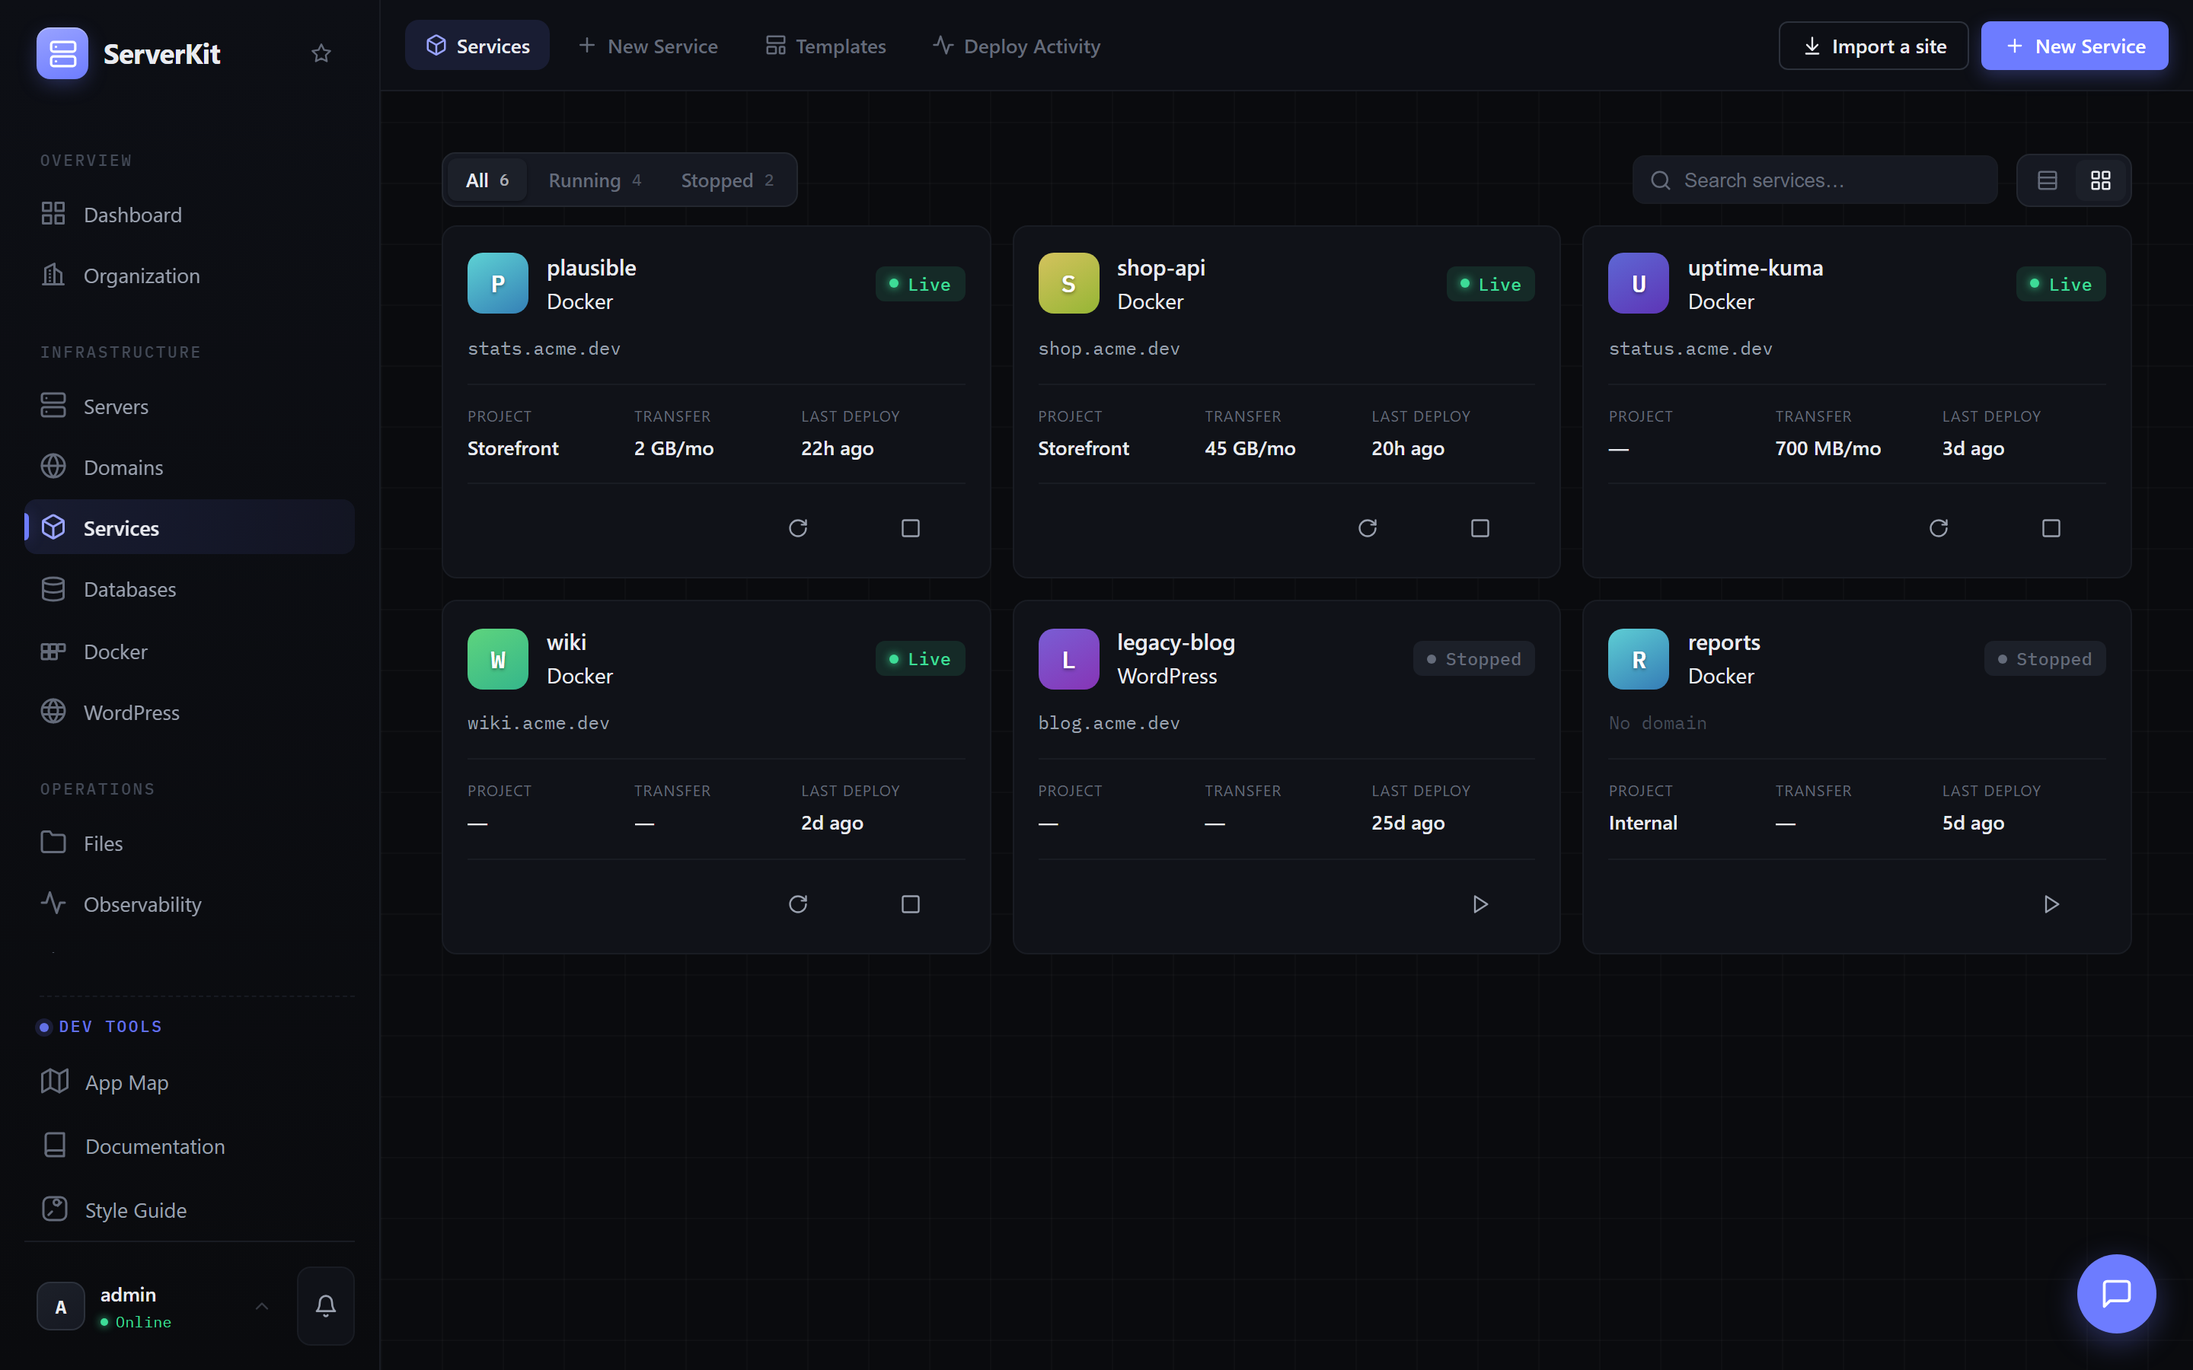
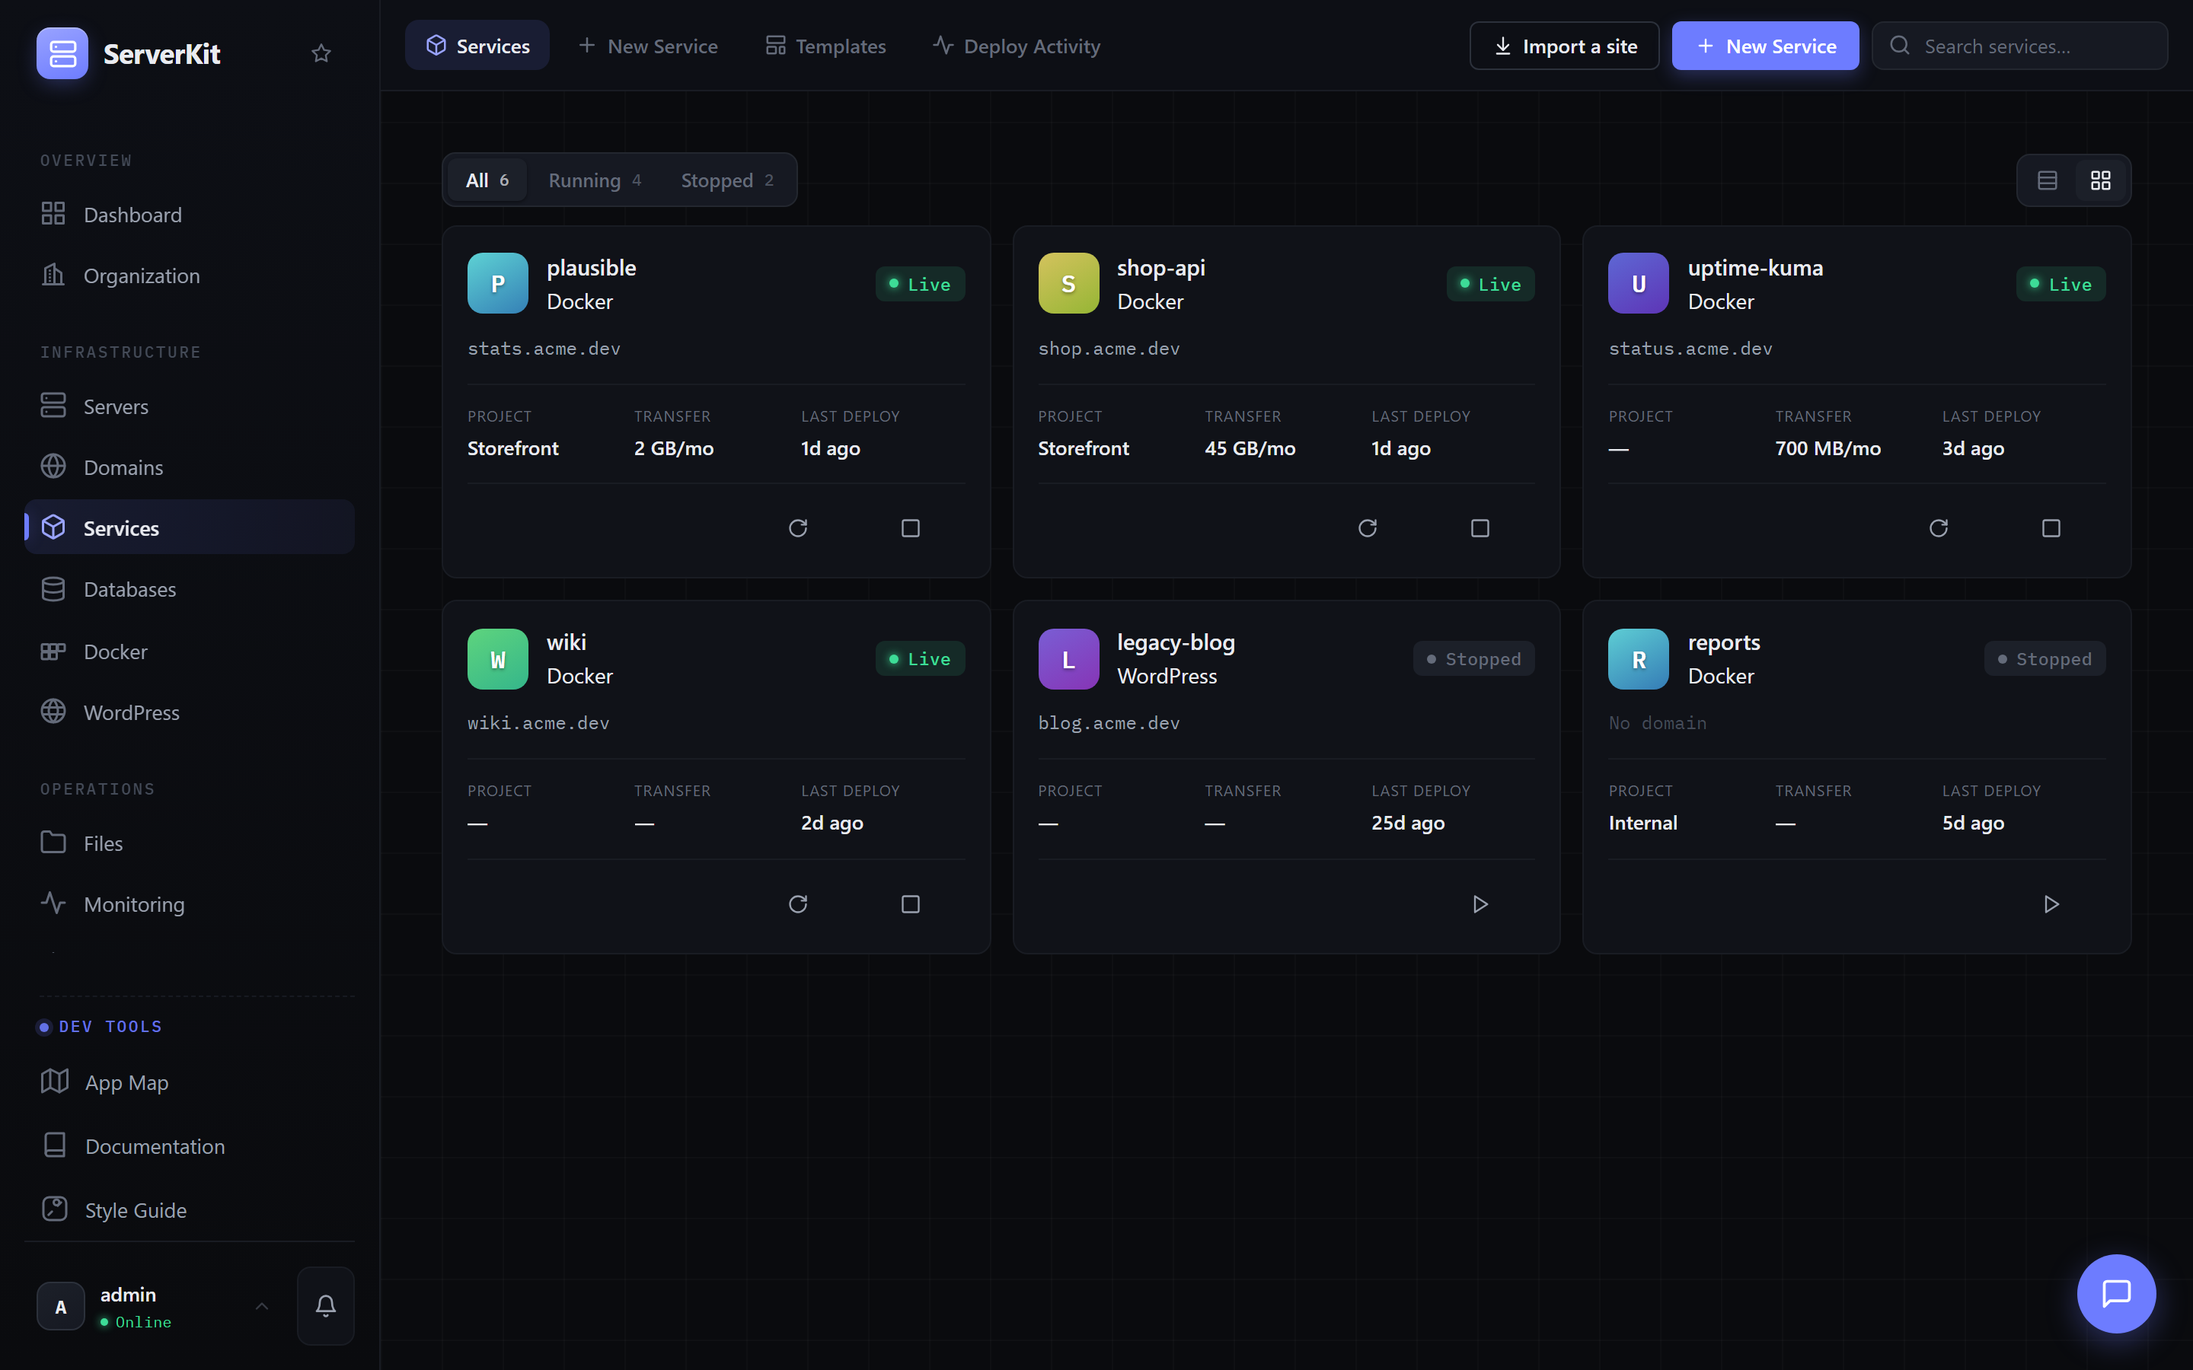
refactor(ui): one place for search, and drop the KPI restatements
Search now lives in the top bar, right-most, on every list page — Services
kept its copy in the table toolbar, and Domains had none at all. The view
switch claims the free space so it stays right-aligned where a page gave its
toolbar search up; where one is still present it hands the margin back.

Domains loses its four-tile KPI strip. Every number on it was already the
count of a segment you would click to act on, so the segments carry them
instead: All 5 / Expiring SSL 1 / Attention 1. Search narrows the set the
counts come from, so they always describe what a click would show.

Fleet Proxy loses its title, subtitle and five-tile band — the tab strip
names the page and every tile re-counted a column of the table beneath it.
What the page is for now lives in the empty state, where it is needed.

diff --git a/frontend/src/pages/Domains.jsx b/frontend/src/pages/Domains.jsx
@@ -2,7 +2,7 @@ import { useState, useEffect } from 'react';
 import { useSearchParams } from 'react-router-dom';
 import {
     Globe, Plus, ShieldCheck, RefreshCw, Trash2, ExternalLink,
-    AlertTriangle, Clock, Lock, Search, ChevronRight,
+    AlertTriangle, Lock, Search, ChevronRight,
 } from 'lucide-react';
 import api from '../services/api';
 import { useToast } from '../contexts/ToastContext';
@@ -16,7 +16,7 @@ import { Checkbox } from '@/components/ui/checkbox';
 import {
     Select, SelectTrigger, SelectContent, SelectItem, SelectValue,
 } from '@/components/ui/select';
-import { MetricCard, SegControl, Pill, Drawer, DataTable } from '@/components/ds';
+import { SegControl, SearchField, Pill, Drawer, DataTable } from '@/components/ds';
 import { useTopbarActions } from '@/hooks/useTopbarActions';
 import RegistrarPortfolio from '../components/domains/RegistrarPortfolio';
 import { ProviderBrandIcon } from '../components/icons/ProviderBrands';
@@ -34,6 +34,7 @@ const Domains = () => {
     const [loading, setLoading] = useState(true);
     const [error, setError] = useState('');
     const [filter, setFilter] = useState('all');
+    const [search, setSearch] = useState('');
     const [drawerDomain, setDrawerDomain] = useState(null);
     const [regInfo, setRegInfo] = useState(null);            // lazy registration lookup for the open drawer
     const [searchParams, setSearchParams] = useSearchParams();
@@ -259,14 +260,32 @@ const Domains = () => {
             })),
     ].sort((a, b) => a.name.localeCompare(b.name));
 
-    const sslActiveCount = domains.filter(d => d.ssl_enabled).length;
-    const expiringCount = domains.filter(d => sslState(d) === 'expiring').length;
-    const attentionCount = domains.filter(d => !d.ssl_enabled).length;
+    // Search narrows the set the filter counts are taken from, so each number
+    // always describes what a click on that segment would actually show.
+    const query = search.trim().toLowerCase();
+    const searched = query
+        ? mergedRows.filter(d => (
+            norm(d.name).includes(query)
+            || (d.registrar || '').toLowerCase().includes(query)
+            || (d.config_name || d.provider || '').toLowerCase().includes(query)
+            || (d.application_id ? getAppName(d.application_id) : '').toLowerCase().includes(query)
+        ))
+        : mergedRows;
 
-    const shown = mergedRows.filter(d => (
-        filter === 'all' ? true
-            : filter === 'ssl' ? sslState(d) === 'expiring'
-                : filter === 'issues' ? (d.source !== 'provider' && !d.ssl_enabled) : true
+    // The segmented control carries the numbers the KPI strip used to: an
+    // "Expiring SSL (2)" segment says the same thing as a tile, and is the
+    // control you'd click next anyway.
+    const isExpiring = (d) => sslState(d) === 'expiring';
+    const needsAttention = (d) => d.source !== 'provider' && !d.ssl_enabled;
+    const filterOptions = [
+        { value: 'all', label: 'All', count: searched.length },
+        { value: 'ssl', label: 'Expiring SSL', count: searched.filter(isExpiring).length },
+        { value: 'issues', label: 'Attention', count: searched.filter(needsAttention).length },
+    ];
+
+    const shown = searched.filter(d => (
+        filter === 'ssl' ? isExpiring(d)
+            : filter === 'issues' ? needsAttention(d) : true
     ));
 
     // Deep-link: /domains?open=<domain> opens that domain's drawer once data has
@@ -291,8 +310,13 @@ const Domains = () => {
             <Button size="sm" onClick={() => setShowAddModal(true)}>
                 <Plus size={15} /> Add domain
             </Button>
+            <SearchField
+                value={search}
+                onSearch={setSearch}
+                placeholder="Search domains…"
+            />
         </>,
-        [],
+        [search],
     );
 
     return (
@@ -317,23 +341,13 @@ const Domains = () => {
                 />
             ) : (
                 <div className="domains-body">
-                    <div className="dom-kpis">
-                        <MetricCard tone="accent" icon={<Globe size={16} />} value={mergedRows.length} label="Domains" />
-                        <MetricCard tone="green" icon={<Lock size={16} />} value={sslActiveCount} label="SSL active" />
-                        <MetricCard tone="amber" icon={<Clock size={16} />} value={expiringCount} label="Expiring ≤30d" />
-                        <MetricCard tone="red" icon={<AlertTriangle size={16} />} value={attentionCount} label="Needs attention" />
-                    </div>
-
+                    {/* No KPI strip: every number it carried is already on the
+                        segment you would click to act on it. */}
                     <div className="dom-listhead">
-                        <h2 className="dom-listhead__title">All domains</h2>
                         <SegControl
                             value={filter}
                             onChange={setFilter}
-                            options={[
-                                { value: 'all', label: 'All' },
-                                { value: 'ssl', label: 'Expiring SSL' },
-                                { value: 'issues', label: 'Attention' },
-                            ]}
+                            options={filterOptions}
                         />
                     </div>
 
@@ -350,7 +364,9 @@ const Domains = () => {
                     )}
 
                     {shown.length === 0 ? (
-                        <div className="dom-empty">No domains match this filter.</div>
+                        <div className="dom-empty">
+                            {query ? `No domains match “${search.trim()}”.` : 'No domains match this filter.'}
+                        </div>
                     ) : (
                         <div className="dom-card">
                             <DataTable

diff --git a/frontend/src/pages/FleetProxy.jsx b/frontend/src/pages/FleetProxy.jsx
@@ -1,11 +1,11 @@
-import { useState, useEffect, useCallback, useMemo } from 'react';
+import { useState, useEffect, useCallback } from 'react';
 import { Link } from 'react-router-dom';
-import { AlertTriangle, Boxes, Network, RefreshCw, Router, Server as ServerIcon, Waypoints } from 'lucide-react';
+import { AlertTriangle, Network, RefreshCw, Server as ServerIcon } from 'lucide-react';
 import api from '../services/api';
 import { useToast } from '../contexts/ToastContext';
 import { useTopbarActions } from '@/hooks/useTopbarActions';
 import { Button } from '@/components/ui/button';
-import { DataTable, KpiBand, MetricCard, Pill } from '@/components/ds';
+import { DataTable, Pill } from '@/components/ds';
 import EmptyState from '../components/EmptyState';
 
 // Fleet-wide reverse-proxy dashboard (Phase 4 of C6). Aggregates every
@@ -93,36 +93,8 @@ const FleetProxy = () => {
         </Button>
     ), [loading]);
 
-    // Summary counts by proxy type for the header, plus fleet-wide app and
-    // ingress-mismatch totals (each server row carries app_count / mismatch_count).
-    const summary = useMemo(() => {
-        const counts = { total: rows.length, nginx: 0, traefik: 0, caddy: 0, apps: 0, mismatches: 0 };
-        rows.forEach((row) => {
-            const type = row.proxy_type || 'nginx';
-            if (counts[type] != null) counts[type] += 1;
-            counts.apps += row.app_count || 0;
-            counts.mismatches += row.mismatch_count || 0;
-        });
-        return counts;
-    }, [rows]);
-
-    // Summary KPIs. Tone mirrors each proxy type's semantic color (Traefik→cyan,
-    // Caddy→violet from PROXY_TYPE_META); the neutral fleet counts read accent,
-    // and the mismatch tile turns amber only when there is something to act on.
-    const summaryTiles = [
-        { key: 'total', label: 'Servers', value: summary.total, icon: <ServerIcon size={16} />, tone: 'accent' },
-        { key: 'apps', label: 'Apps', value: summary.apps, icon: <Boxes size={16} />, tone: 'accent' },
-        { key: 'traefik', label: 'Traefik', value: summary.traefik, icon: <Router size={16} />, tone: 'cyan' },
-        { key: 'caddy', label: 'Caddy', value: summary.caddy, icon: <Waypoints size={16} />, tone: 'violet' },
-        {
-            key: 'mismatches',
-            label: 'Ingress mismatches',
-            value: summary.mismatches,
-            icon: <AlertTriangle size={16} />,
-            tone: summary.mismatches > 0 ? 'amber' : 'green',
-        },
-    ];
-
+    // No KPI band and no page title: every tile it held was a re-count of a
+    // column already on the table below, and the tab strip names the page.
     const columns = [
         { key: 'server', header: 'Server' },
         { key: 'type', header: 'Proxy type' },
@@ -136,32 +108,6 @@ const FleetProxy = () => {
 
     return (
         <div className="sk-tabgroup__inner fleet-proxy">
-            <header className="fleet-proxy__intro">
-                <div className="fleet-proxy__intro-icon">
-                    <Network size={18} />
-                </div>
-                <div className="fleet-proxy__intro-text">
-                    <h1>Fleet Proxy</h1>
-                    <p>
-                        Reverse-proxy posture across every server. Host Nginx is the default;
-                        servers can opt into a managed Traefik or Caddy stack. Open a server&apos;s
-                        Proxy tab to configure it.
-                    </p>
-                </div>
-            </header>
-
-            <KpiBand max={5}>
-                {summaryTiles.map((tile) => (
-                    <MetricCard
-                        key={tile.key}
-                        icon={tile.icon}
-                        tone={tile.tone}
-                        value={tile.value}
-                        label={tile.label}
-                    />
-                ))}
-            </KpiBand>
-
             {error ? (
                 <div className="fleet-proxy__error">
                     <p>{error}</p>
@@ -179,7 +125,7 @@ const FleetProxy = () => {
                             <EmptyState
                                 icon={Network}
                                 title="No servers in the fleet"
-                                description="Add a server to see its reverse-proxy posture here."
+                                description="This is where each server's reverse-proxy posture lands: which proxy it runs, whether it's healthy, and when its config was last regenerated. Host Nginx is the default; a server can opt into a managed Traefik or Caddy stack from its Proxy tab. Add a server to start."
                             />
                         )}
                         renderRow={(row, { key }) => {

diff --git a/frontend/src/pages/Services.jsx b/frontend/src/pages/Services.jsx
@@ -7,7 +7,7 @@ import { getServiceType, getStatusConfig, formatRelativeTime } from '../utils/se
 import ResourceListPage from '../components/layouts/ResourceListPage';
 import BandwidthSparkline from '../components/BandwidthSparkline';
 import { formatBytes } from '../utils/formatBytes';
-import { Pill, ServiceTile, EnvTag } from '@/components/ds';
+import { Pill, ServiceTile, EnvTag, SearchField } from '@/components/ds';
 import { useTopbarActions } from '@/hooks/useTopbarActions';
 import { Button } from '@/components/ui/button';
 import { Checkbox } from '@/components/ui/checkbox';
@@ -132,8 +132,13 @@ const Services = () => {
                     New Service
                 </Link>
             </Button>
+            <SearchField
+                value={searchTerm}
+                onSearch={setSearchTerm}
+                placeholder="Search services…"
+            />
         </>,
-        []
+        [searchTerm]
     );
 
     const allSelected = filteredApps.length > 0 && filteredApps.every(a => selectedIds.has(a.id));
@@ -324,9 +329,6 @@ const Services = () => {
             ]}
             activeFilter={statusFilter}
             onFilterChange={setStatusFilter}
-            searchTerm={searchTerm}
-            onSearchChange={setSearchTerm}
-            searchPlaceholder="Search services…"
             selectedCount={selectedIds.size}
             onClearSelection={() => setSelectedIds(new Set())}
             bulkActions={

diff --git a/frontend/src/styles/pages/_fleet-proxy.scss b/frontend/src/styles/pages/_fleet-proxy.scss
@@ -12,40 +12,9 @@
     flex-direction: column;
     gap: $space-4;
 
-    // Intro: icon chip + title + one-line explanation.
-    &__intro {
-        display: flex;
-        align-items: flex-start;
-        gap: $space-3;
-    }
-
-    &__intro-icon {
-        display: inline-flex;
-        flex: none;
-        padding: $space-2;
-        border-radius: $radius-md;
-        background: var(--accent-bg);
-        color: var(--accent-bright);
-    }
-
-    &__intro-text {
-        h1 {
-            margin: 0 0 $space-1;
-            font-size: $font-size-lg;
-            font-weight: 600;
-            color: $text-primary;
-        }
-
-        p {
-            margin: 0;
-            max-width: 62ch;
-            font-size: $font-size-sm;
-            color: $text-secondary;
-        }
-    }
-
-    // Summary KPIs now render via the shared KpiBand / MetricCard primitives;
-    // no bespoke tile styling lives here.
+    // No intro header and no KPI band: the tab strip names the page, and every
+    // tile was a re-count of a column on the table. What the page is for is
+    // explained where it's actually needed — the empty state.
 
     // "Apps" cell: count plus an optional amber mismatch pill.
     &__apps {

diff --git a/frontend/src/styles/pages/_wordpress.scss b/frontend/src/styles/pages/_wordpress.scss
@@ -203,11 +203,15 @@
     &__meta-running { color: var(--green); }
 
     // Table/cards switch — only rendered by pages that pass a card renderer to
-    // ResourceListPage. Sits after the search, which already claims margin-left.
+    // ResourceListPage. It claims the free space so it stays right-aligned on
+    // pages whose search lives in the top bar instead (Services); where a
+    // toolbar search IS present that element already claims it, so the switch
+    // gives the margin back and simply trails it.
     &__viewswitch {
         display: flex;
         gap: 2px;
         flex-shrink: 0;
+        margin-left: auto;
         padding: 3px;
         background: var(--surface-2);
         border: 1px solid var(--border);
@@ -228,6 +232,8 @@
             &.is-active { background: var(--surface-3); color: var(--text); }
         }
     }
+
+    &__search + &__viewswitch { margin-left: 0; }
 
     // Card layout for the same rows the table shows.
     &__cards {

diff --git a/frontend/src/styles/pages/_domains.scss b/frontend/src/styles/pages/_domains.scss
@@ -14,31 +14,13 @@
     padding-top: $space-5;
 }
 
-// KPI strip
-.dom-kpis {
-    display: grid;
-    grid-template-columns: repeat(4, 1fr);
-    gap: $space-4;
-    margin-bottom: $space-5;
-
-    @media (max-width: $breakpoint-lg) { grid-template-columns: repeat(2, 1fr); }
-    @media (max-width: $breakpoint-sm) { grid-template-columns: 1fr; }
-}
-
-// List header + segmented filter
+// Segmented filter above the table. The counts it carries replaced the KPI
+// strip that used to sit here — same numbers, on the control you'd click.
 .dom-listhead {
     display: flex;
     align-items: center;
-    justify-content: space-between;
     gap: $space-4;
     margin-bottom: $space-3;
-
-    &__title {
-        margin: 0;
-        font-size: 15px;
-        font-weight: $font-weight-semibold;
-        color: $text-primary;
-    }
 }
 
 // Table card
